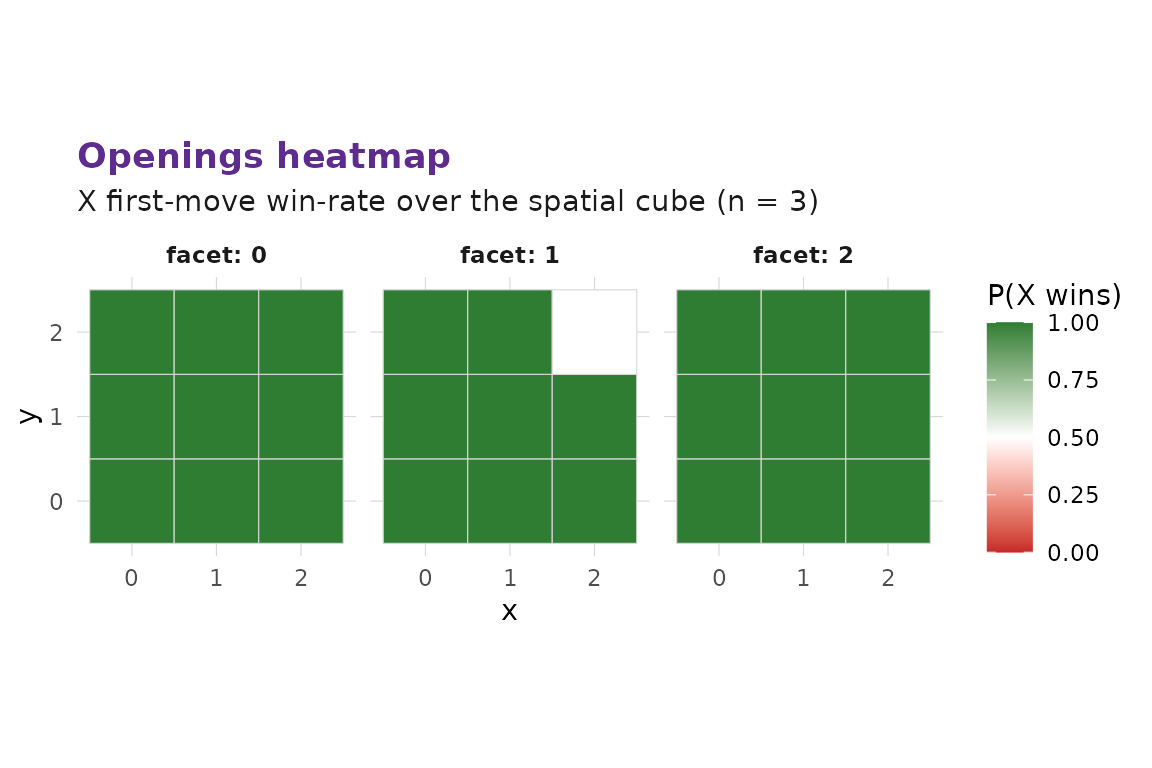
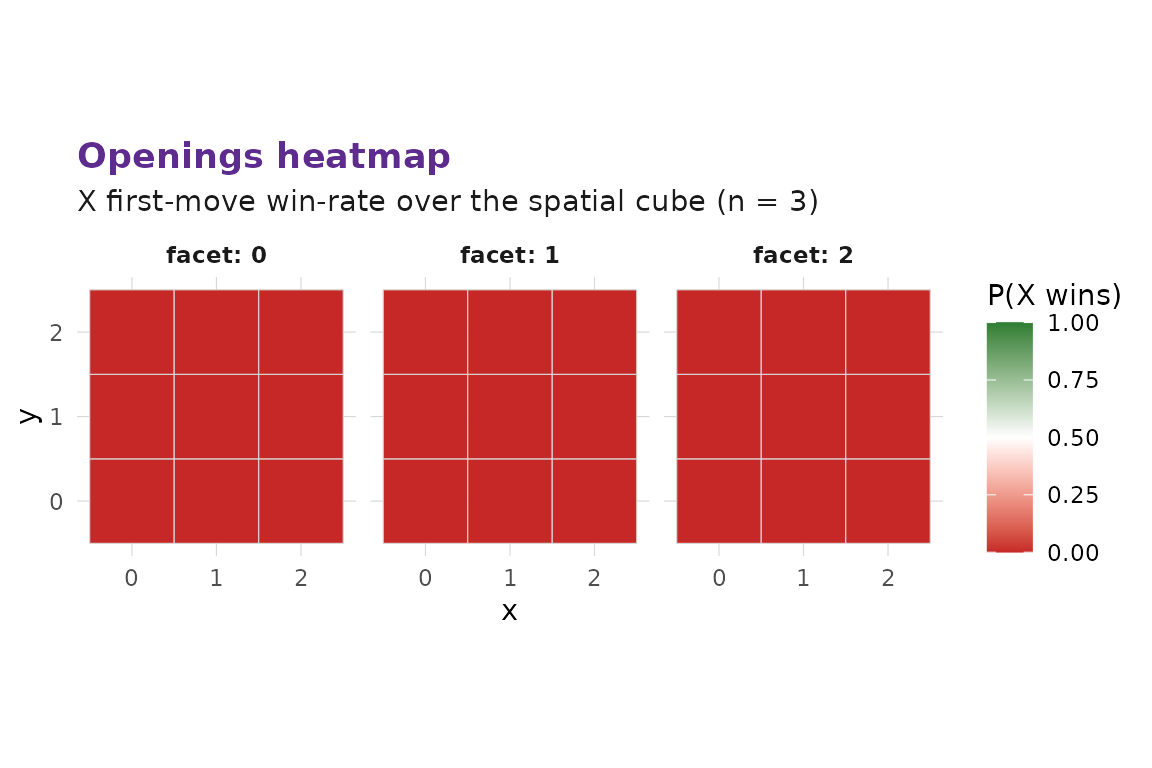
Deploying to gh-pages from @ r-heller/multixoR@c4caa1be4d6be9f4cafef05eef197fff7a2d548d 🚀

Changed region(s): [[0.0625, 0.375, 0.8125, 0.7188]]

diff --git a/articles/simulation.html b/articles/simulation.html
@@ -141,33 +141,35 @@ stress-test number — the <strong>fraction of decisive games whose
 winning line crosses timelines</strong> — the diagnostic the
 orchestrator flagged as the rules’ main balance concern.</p>
 <div class="sourceCode" id="cb4"><pre class="downlit sourceCode r">
-<code class="sourceCode R"><span><span class="va">sim</span> <span class="op">&lt;-</span> <span class="fu"><a href="../reference/mxo_simulate.html">mxo_simulate</a></span><span class="op">(</span></span>
+<code class="sourceCode R"><span><span class="co"># Tiny `n_games` to keep the vignette build well under a minute on the</span></span>
+<span><span class="co"># pure-R engine; bump these up for real analyses.</span></span>
+<span><span class="va">sim</span> <span class="op">&lt;-</span> <span class="fu"><a href="../reference/mxo_simulate.html">mxo_simulate</a></span><span class="op">(</span></span>
 <span>  <span class="fu"><a href="../reference/mxo_policy.html">mxo_policy</a></span><span class="op">(</span><span class="st">"random"</span>, branch_policy <span class="op">=</span> <span class="st">"all"</span><span class="op">)</span>,</span>
 <span>  <span class="fu"><a href="../reference/mxo_policy.html">mxo_policy</a></span><span class="op">(</span><span class="st">"random"</span>, branch_policy <span class="op">=</span> <span class="st">"all"</span><span class="op">)</span>,</span>
-<span>  n_games <span class="op">=</span> <span class="fl">20L</span>,</span>
-<span>  config <span class="op">=</span> <span class="fu"><a href="../reference/mxo_config_default.html">mxo_config_default</a></span><span class="op">(</span>n <span class="op">=</span> <span class="fl">3L</span>, k <span class="op">=</span> <span class="fl">3L</span>, ply_cap <span class="op">=</span> <span class="fl">8L</span><span class="op">)</span>,</span>
+<span>  n_games <span class="op">=</span> <span class="fl">6L</span>,</span>
+<span>  config <span class="op">=</span> <span class="fu"><a href="../reference/mxo_config_default.html">mxo_config_default</a></span><span class="op">(</span>n <span class="op">=</span> <span class="fl">3L</span>, k <span class="op">=</span> <span class="fl">3L</span>, ply_cap <span class="op">=</span> <span class="fl">6L</span><span class="op">)</span>,</span>
 <span>  seed <span class="op">=</span> <span class="fl">7L</span>, record_eval <span class="op">=</span> <span class="cn">FALSE</span>, progress <span class="op">=</span> <span class="cn">FALSE</span></span>
 <span><span class="op">)</span></span>
 <span><span class="fu"><a href="https://rdrr.io/r/base/summary.html" class="external-link">summary</a></span><span class="op">(</span><span class="va">sim</span><span class="op">)</span></span>
 <span><span class="co">#&gt; </span></span>
 <span><span class="co">#&gt; <span style="color: #00BBBB;">──</span> <span style="font-weight: bold;">multixoR simulation summary</span> <span style="color: #00BBBB;">─────────────────────────────────────────────────</span></span></span>
-<span><span class="co">#&gt; <span style="color: #00BBBB;">ℹ</span> Games: 20</span></span>
+<span><span class="co">#&gt; <span style="color: #00BBBB;">ℹ</span> Games: 6</span></span>
 <span><span class="co">#&gt; <span style="color: #00BBBB;">ℹ</span> Win rates: X = 0; O = 0; draws = 1</span></span>
-<span><span class="co">#&gt; <span style="color: #00BBBB;">ℹ</span> Mean plies: 8; mean timelines: 4.7</span></span>
+<span><span class="co">#&gt; <span style="color: #00BBBB;">ℹ</span> Mean plies: 6; mean timelines: 4.33</span></span>
 <span><span class="co">#&gt; <span style="color: #00BBBB;">ℹ</span> Cross-timeline-win fraction: NA</span></span></code></pre></div>
 <p><code><a href="../reference/mxo_timeline_win_rate.html">mxo_timeline_win_rate()</a></code> returns the same number with a
 per-axis-class breakdown.</p>
 <div class="sourceCode" id="cb5"><pre class="downlit sourceCode r">
 <code class="sourceCode R"><span><span class="fu"><a href="../reference/mxo_timeline_win_rate.html">mxo_timeline_win_rate</a></span><span class="op">(</span></span>
 <span>  <span class="fu"><a href="../reference/mxo_policy.html">mxo_policy</a></span><span class="op">(</span><span class="st">"random"</span><span class="op">)</span>, <span class="fu"><a href="../reference/mxo_policy.html">mxo_policy</a></span><span class="op">(</span><span class="st">"random"</span><span class="op">)</span>,</span>
-<span>  n_games <span class="op">=</span> <span class="fl">20L</span>,</span>
-<span>  config <span class="op">=</span> <span class="fu"><a href="../reference/mxo_config_default.html">mxo_config_default</a></span><span class="op">(</span>n <span class="op">=</span> <span class="fl">3L</span>, k <span class="op">=</span> <span class="fl">3L</span>, ply_cap <span class="op">=</span> <span class="fl">8L</span><span class="op">)</span>,</span>
+<span>  n_games <span class="op">=</span> <span class="fl">6L</span>,</span>
+<span>  config <span class="op">=</span> <span class="fu"><a href="../reference/mxo_config_default.html">mxo_config_default</a></span><span class="op">(</span>n <span class="op">=</span> <span class="fl">3L</span>, k <span class="op">=</span> <span class="fl">3L</span>, ply_cap <span class="op">=</span> <span class="fl">6L</span><span class="op">)</span>,</span>
 <span>  seed <span class="op">=</span> <span class="fl">7L</span></span>
 <span><span class="op">)</span></span>
 <span><span class="co">#&gt; <span style="color: #949494;"># A tibble: 1 × 8</span></span></span>
 <span><span class="co">#&gt;   n_games n_wins cross_timeline_wins cross_timeline_fraction spatial  time</span></span>
 <span><span class="co">#&gt;     <span style="color: #949494; font-style: italic;">&lt;int&gt;</span>  <span style="color: #949494; font-style: italic;">&lt;int&gt;</span>               <span style="color: #949494; font-style: italic;">&lt;int&gt;</span>                   <span style="color: #949494; font-style: italic;">&lt;dbl&gt;</span>   <span style="color: #949494; font-style: italic;">&lt;int&gt;</span> <span style="color: #949494; font-style: italic;">&lt;int&gt;</span></span></span>
-<span><span class="co">#&gt; <span style="color: #BCBCBC;">1</span>      20      0                   0                      <span style="color: #BB0000;">NA</span>       0     0</span></span>
+<span><span class="co">#&gt; <span style="color: #BCBCBC;">1</span>       6      0                   0                      <span style="color: #BB0000;">NA</span>       0     0</span></span>
 <span><span class="co">#&gt; <span style="color: #949494;"># ℹ 2 more variables: timeline &lt;int&gt;, mixed &lt;int&gt;</span></span></span></code></pre></div>
 </div>
 <div class="section level2">
@@ -179,8 +181,8 @@ renders the resulting win-rate heatmap as Z-slices.</p>
 <div class="sourceCode" id="cb6"><pre class="downlit sourceCode r">
 <code class="sourceCode R"><span><span class="va">tab</span> <span class="op">&lt;-</span> <span class="fu"><a href="../reference/mxo_opening_table.html">mxo_opening_table</a></span><span class="op">(</span></span>
 <span>  opponent <span class="op">=</span> <span class="fu"><a href="../reference/mxo_policy.html">mxo_policy</a></span><span class="op">(</span><span class="st">"random"</span><span class="op">)</span>,</span>
-<span>  n_games_per_cell <span class="op">=</span> <span class="fl">2L</span>,</span>
-<span>  config <span class="op">=</span> <span class="fu"><a href="../reference/mxo_config_default.html">mxo_config_default</a></span><span class="op">(</span>n <span class="op">=</span> <span class="fl">3L</span>, k <span class="op">=</span> <span class="fl">3L</span>, ply_cap <span class="op">=</span> <span class="fl">6L</span><span class="op">)</span>,</span>
+<span>  n_games_per_cell <span class="op">=</span> <span class="fl">1L</span>,</span>
+<span>  config <span class="op">=</span> <span class="fu"><a href="../reference/mxo_config_default.html">mxo_config_default</a></span><span class="op">(</span>n <span class="op">=</span> <span class="fl">3L</span>, k <span class="op">=</span> <span class="fl">3L</span>, ply_cap <span class="op">=</span> <span class="fl">4L</span><span class="op">)</span>,</span>
 <span>  seed <span class="op">=</span> <span class="fl">1L</span></span>
 <span><span class="op">)</span></span>
 <span><span class="fu"><a href="../reference/mxo_plot_opening.html">mxo_plot_opening</a></span><span class="op">(</span><span class="va">tab</span>, n <span class="op">=</span> <span class="fl">3L</span>, d_spatial <span class="op">=</span> <span class="fl">3L</span><span class="op">)</span></span></code></pre></div>

diff --git a/articles/simulation.md b/articles/simulation.md
@@ -67,19 +67,21 @@ orchestrator flagged as the rules’ main balance concern.
 
 ``` r
 
+# Tiny `n_games` to keep the vignette build well under a minute on the
+# pure-R engine; bump these up for real analyses.
 sim <- mxo_simulate(
   mxo_policy("random", branch_policy = "all"),
   mxo_policy("random", branch_policy = "all"),
-  n_games = 20L,
-  config = mxo_config_default(n = 3L, k = 3L, ply_cap = 8L),
+  n_games = 6L,
+  config = mxo_config_default(n = 3L, k = 3L, ply_cap = 6L),
   seed = 7L, record_eval = FALSE, progress = FALSE
 )
 summary(sim)
 #> 
 #> ── multixoR simulation summary ─────────────────────────────────────────────────
-#> ℹ Games: 20
+#> ℹ Games: 6
 #> ℹ Win rates: X = 0; O = 0; draws = 1
-#> ℹ Mean plies: 8; mean timelines: 4.7
+#> ℹ Mean plies: 6; mean timelines: 4.33
 #> ℹ Cross-timeline-win fraction: NA
 ```
 
@@ -90,14 +92,14 @@ returns the same number with a per-axis-class breakdown.
 
 mxo_timeline_win_rate(
   mxo_policy("random"), mxo_policy("random"),
-  n_games = 20L,
-  config = mxo_config_default(n = 3L, k = 3L, ply_cap = 8L),
+  n_games = 6L,
+  config = mxo_config_default(n = 3L, k = 3L, ply_cap = 6L),
   seed = 7L
 )
 #> # A tibble: 1 × 8
 #>   n_games n_wins cross_timeline_wins cross_timeline_fraction spatial  time
 #>     <int>  <int>               <int>                   <dbl>   <int> <int>
-#> 1      20      0                   0                      NA       0     0
+#> 1       6      0                   0                      NA       0     0
 #> # ℹ 2 more variables: timeline <int>, mixed <int>
 ```
 
@@ -112,8 +114,8 @@ renders the resulting win-rate heatmap as Z-slices.
 
 tab <- mxo_opening_table(
   opponent = mxo_policy("random"),
-  n_games_per_cell = 2L,
-  config = mxo_config_default(n = 3L, k = 3L, ply_cap = 6L),
+  n_games_per_cell = 1L,
+  config = mxo_config_default(n = 3L, k = 3L, ply_cap = 4L),
   seed = 1L
 )
 mxo_plot_opening(tab, n = 3L, d_spatial = 3L)